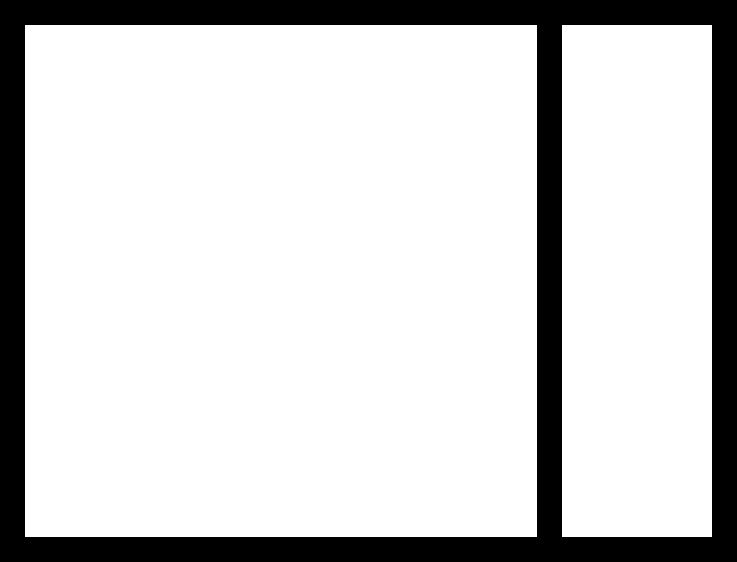
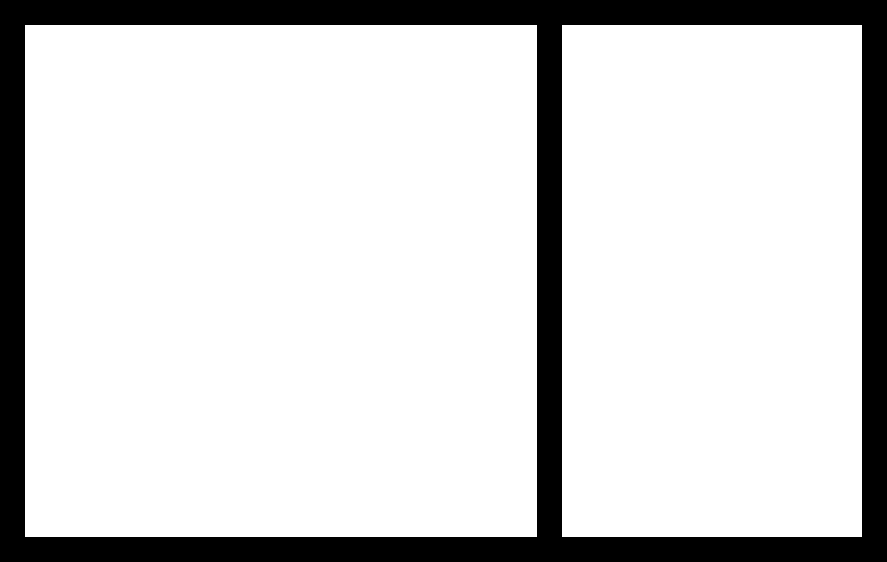
added move log display

diff --git a/graphics.py b/graphics.py
@@ -1,6 +1,7 @@
 # -*- coding: utf-8 -*-
 
 import pygame as p
+import itertools
 
 def loadImages():
     
@@ -26,8 +27,8 @@ def loadImages():
     return images
      
    
-def drawGameState(window, gamestate, legalMoves, selectedSquare, images, 
-                  totalWidth, totalHeight, SQUARE_SIZE, BORDERS, DIM):
+def drawGameState(window, gamestate, legalMoves, selectedSquare, images, font,
+                  totalWidth, totalHeight, HEIGHT, SQUARE_SIZE, BORDERS, DIM):
     
     """
     Draws a given game state in the window.
@@ -35,9 +36,9 @@ def drawGameState(window, gamestate, legalMoves, selectedSquare, images,
     
     # frame around the board
     
-    framesurface = p.Rect(0, 0, totalWidth, totalHeight)
+    frameRect = p.Rect(0, 0, totalWidth, totalHeight)
     frame = images["frame"]
-    window.blit(frame, framesurface)
+    window.blit(frame, frameRect)
     
     # drawing the board itself
     
@@ -51,11 +52,9 @@ def drawGameState(window, gamestate, legalMoves, selectedSquare, images,
             square = p.Rect(col*SQUARE_SIZE+BORDERS["l"], row*SQUARE_SIZE+BORDERS["t"], SQUARE_SIZE, SQUARE_SIZE)
             p.draw.rect(window, color, square)
     
-    
     # highlighting
     
     highlightMoves(window, gamestate, legalMoves, selectedSquare, SQUARE_SIZE, BORDERS)
-    
     
     # drawing the pieces on the board
     
@@ -71,6 +70,10 @@ def drawGameState(window, gamestate, legalMoves, selectedSquare, images,
             square = p.Rect(col*SQUARE_SIZE+BORDERS["l"], row*SQUARE_SIZE+BORDERS["t"], SQUARE_SIZE, SQUARE_SIZE)
             piece = p.transform.scale(images[str(currentSquare)], (SQUARE_SIZE, SQUARE_SIZE))
             window.blit(piece, square)
+            
+    # drawing the move log
+    
+    drawMoveLog(window, gamestate, font, totalWidth, HEIGHT, BORDERS)
         
     return
 
@@ -141,17 +144,55 @@ def highlightMoves(window, gamestate, legalMoves, selectedSquare, SQUARE_SIZE, B
     return
 
 
-def drawMoveLog(window, gamestate):
+def drawMoveLog(window, gamestate, font, totalWidth, HEIGHT, BORDERS):
     
     """
     Draws the move log of a game state.
     """
     
+    moveLogX = totalWidth-BORDERS["r"] + 25
+    moveLogY = BORDERS["t"]
+    moveLogWidth = BORDERS["r"] - 50
+    moveLogHeight = HEIGHT
+    
+    # erase previous move log
+    logRect = p.Rect(moveLogX, moveLogY, moveLogWidth, moveLogHeight)
+    window.fill(p.Color("white"), logRect)
+    
     if not gamestate.moveLog:
         return
     
+    gap = 14
     
+    logText = []
     
+    # convert the move log to strings of turns
+    for i in range(0, len(gamestate.moveLog), 2):
+        
+        turn = str(i//2 + 1) + ". " + str(gamestate.moveLog[i]) + " "
+        
+        if i+1 < len(gamestate.moveLog):
+            
+            turn += str(gamestate.moveLog[i+1]) + " "
+        
+        logText.append(turn)
+    
+    # taken from https://docs.python.org/3/library/itertools.html#itertools-recipes
+    def grouper(iterable, n, *, incomplete='fill', fillvalue=" "):
+        
+        args = [iter(iterable)] * n
+        return itertools.zip_longest(*args, fillvalue=fillvalue)
+    
+    turnsPerLine = 3
+    currLine = 0
+    
+    for line in grouper(logText, turnsPerLine):
+        
+        text = font.render("".join(line), True, p.Color("black"))
+        textBox = p.Rect(moveLogX, moveLogY+currLine*gap, moveLogWidth, gap)
+        window.blit(text, textBox)
+        currLine += 1
+        
     return
 
 

diff --git a/engine.py b/engine.py
@@ -586,7 +586,7 @@ class Move():
     
     def __str__(self):
         
-        return str(self.movedPiece) + self.moveID + str(self.capturedPiece)
+        return self.moveID
     
     
     def __eq__(self, other):
@@ -608,9 +608,9 @@ class Castle(Move):
         self.isCastle = True
         self.side = side
         
-        if self.side == "O-O":
+        if self.side == "0-0":
             self.rookMove = Move((self.startRow, 7), (self.startRow, 5), board)
-        elif self.side == "O-O-O":
+        elif self.side == "0-0-0":
             self.rookMove = Move((self.startRow, 0), (self.startRow, 3), board)
             
         self.rookMove.isCastleRookMove = True
@@ -618,7 +618,7 @@ class Castle(Move):
     
     def __str__(self):
         
-        return str(self.moveID)
+        return self.side
     
         
 class Piece():
@@ -1007,7 +1007,7 @@ class King(Piece):
                 castlingMoves.append(Castle((self.row, self.col), 
                                            (self.row, self.col - 2), 
                                            gamestate.board, 
-                                           "O-O-O"))    
+                                           "0-0-0"))    
 
         if castleKingSide:
             
@@ -1036,6 +1036,6 @@ class King(Piece):
                 castlingMoves.append(Castle((self.row, self.col), 
                                            (self.row, self.col + 2), 
                                            gamestate.board, 
-                                           "O-O"))    
+                                           "0-0"))    
         
         return castlingMoves

diff --git a/main.py b/main.py
@@ -18,9 +18,13 @@ def main():
     # set up pygame
     totalWidth = WIDTH + BORDERS["l"] + BORDERS["r"]
     totalHeight = WIDTH + BORDERS["t"] + BORDERS["b"]
+    print(totalWidth, totalHeight)
     window = p.display.set_mode((totalWidth, totalHeight))
     window.fill(p.Color("white"))
     clock = p.time.Clock()
+    
+    # font for the move log
+    font = p.font.Font("fonts/Segoe UI.ttf", 14)
     
     # generate initial gamestate
     gamestate = engine.GameState()
@@ -117,9 +121,8 @@ def main():
             newGameState = False
         
         graphics.drawGameState(window, gamestate, legalMoves, selectedSquare, 
-                               images, totalWidth, totalHeight, 
-                               SQUARE_SIZE, BORDERS, DIM)
-        graphics.drawMoveLog(window, gamestate)
+                               images, font, totalWidth, totalHeight,
+                               HEIGHT, SQUARE_SIZE, BORDERS, DIM)
         
         # end of game screen
         if gamestate.checkmate:
@@ -153,7 +156,7 @@ if __name__ == "__main__":
     
     WIDTH = 512
     HEIGHT = 512
-    BORDERS = {"l": 25, "r": 200, "t": 25, "b": 25}
+    BORDERS = {"l": 25, "r": 350, "t": 25, "b": 25}
     DIM = 8
     SQUARE_SIZE = int(WIDTH / DIM)
     FPS = 30

diff --git a/README.md b/README.md
@@ -3,3 +3,4 @@
 A simple chess game in python using pygame.
 
 Images of chess pieces taken from https://commons.wikimedia.org/wiki/Category:SVG_chess_pieces
+Move log font taken from https://www.cufonfonts.com/font/segoe-ui-4 
